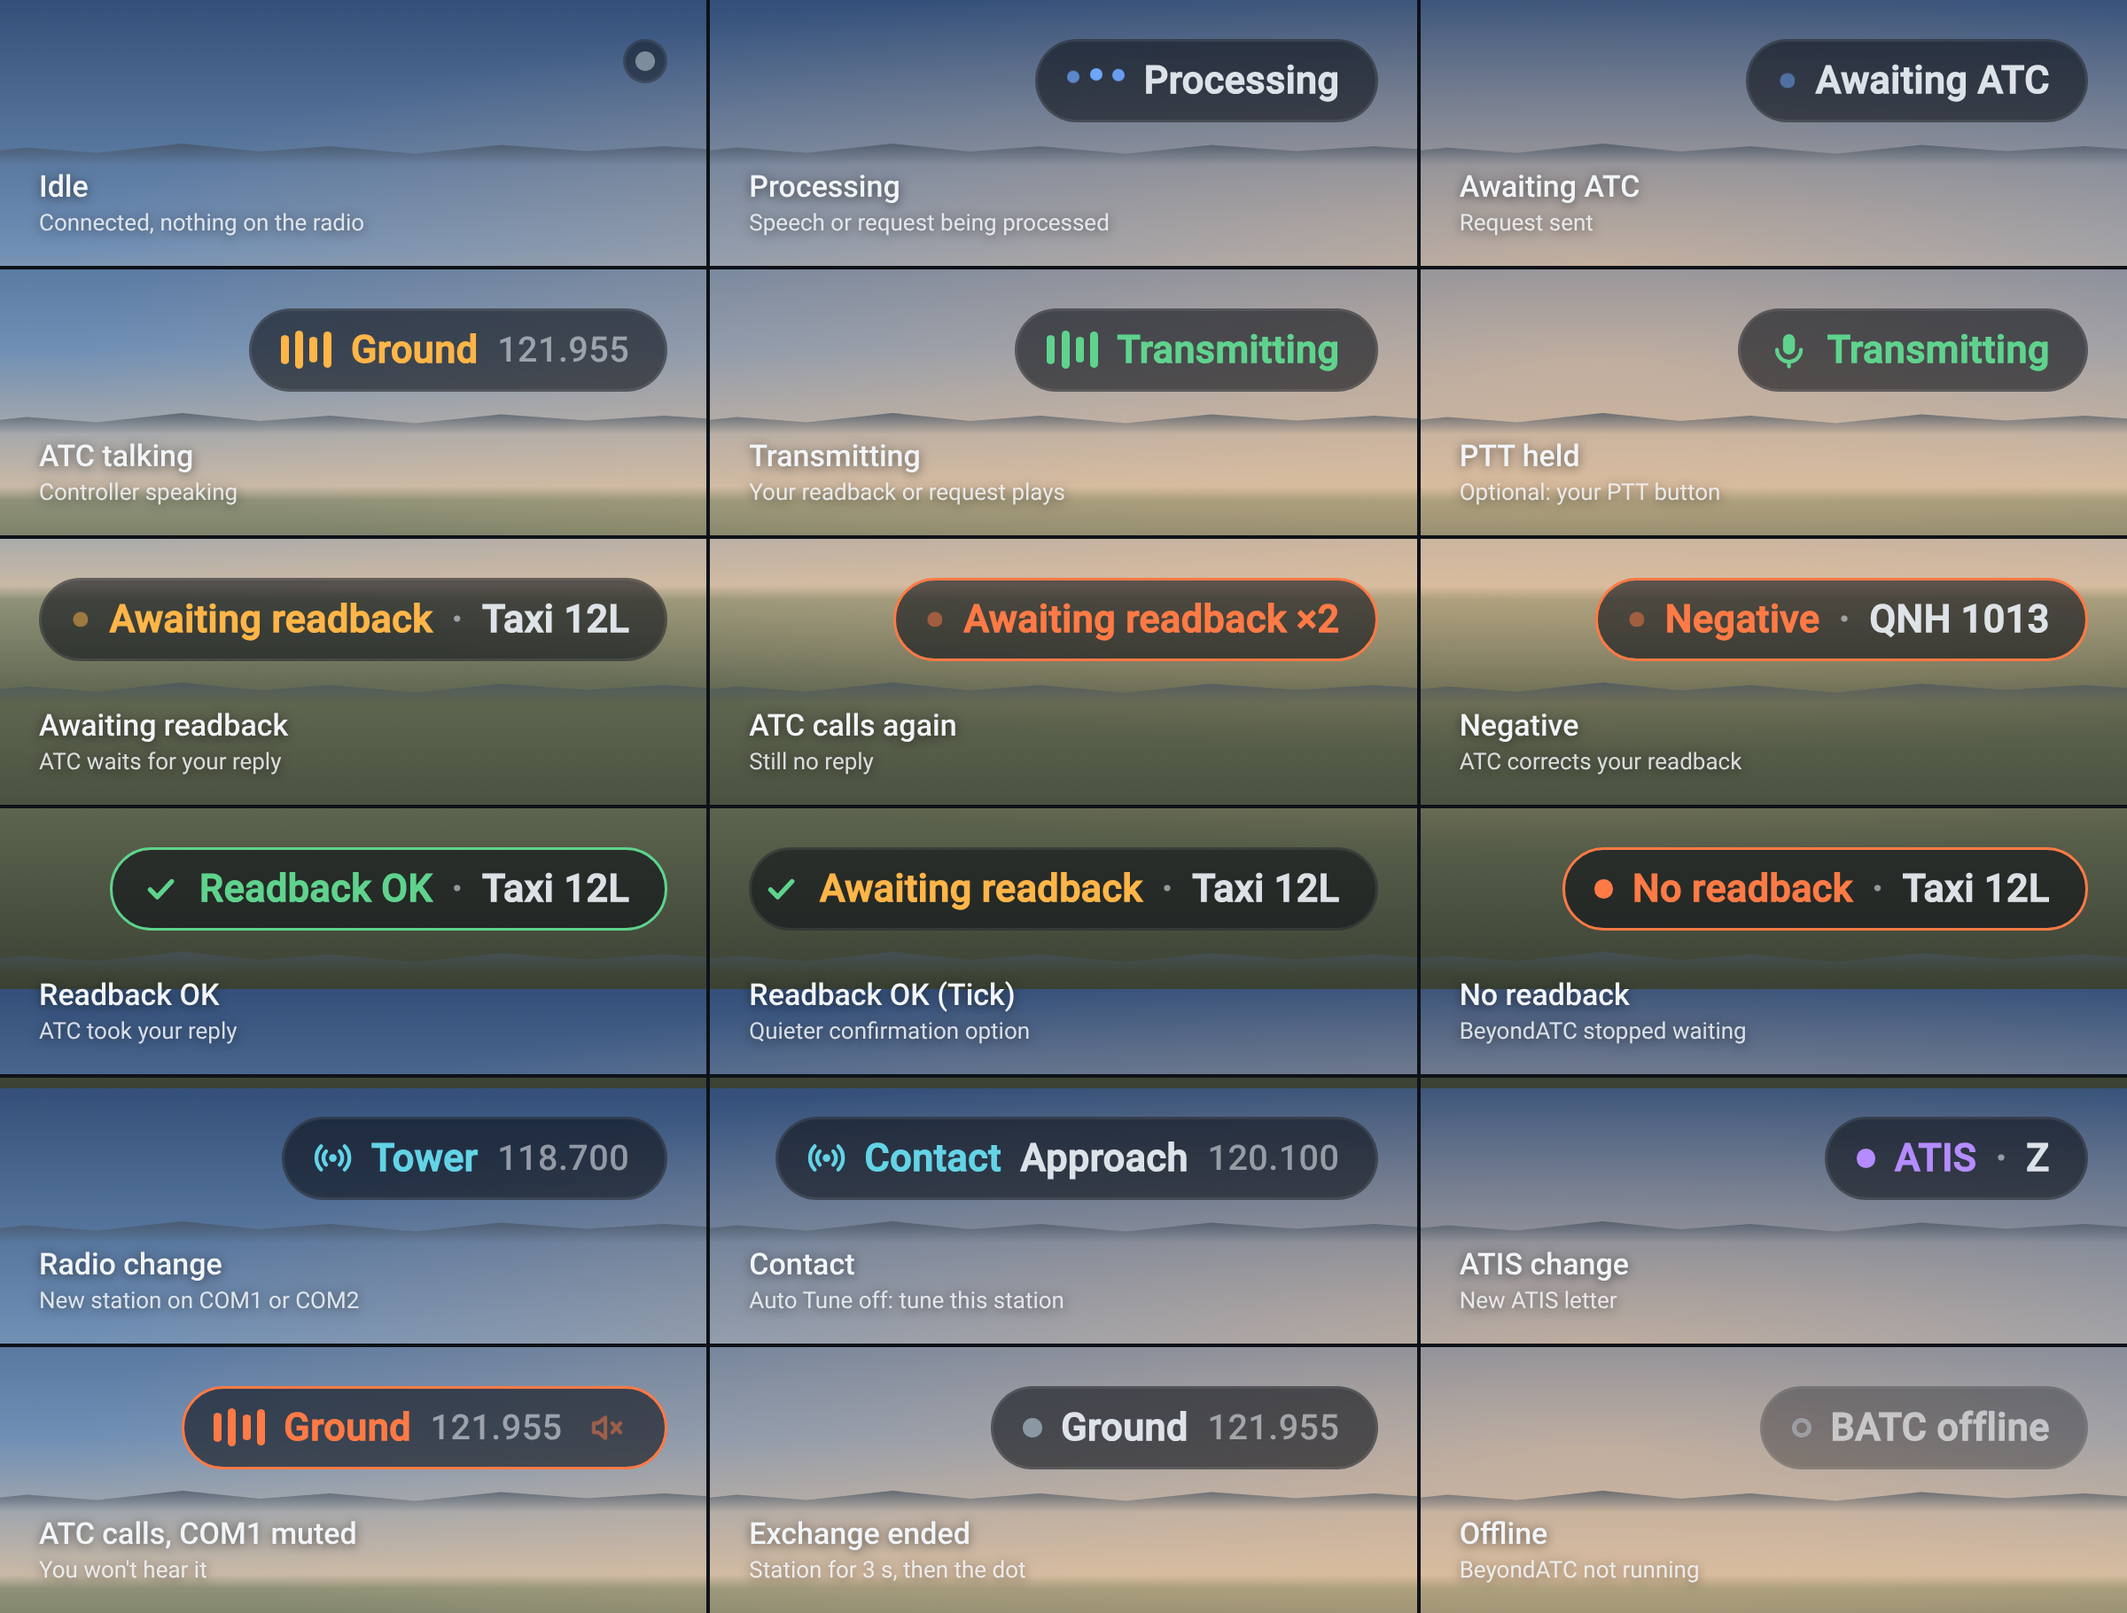
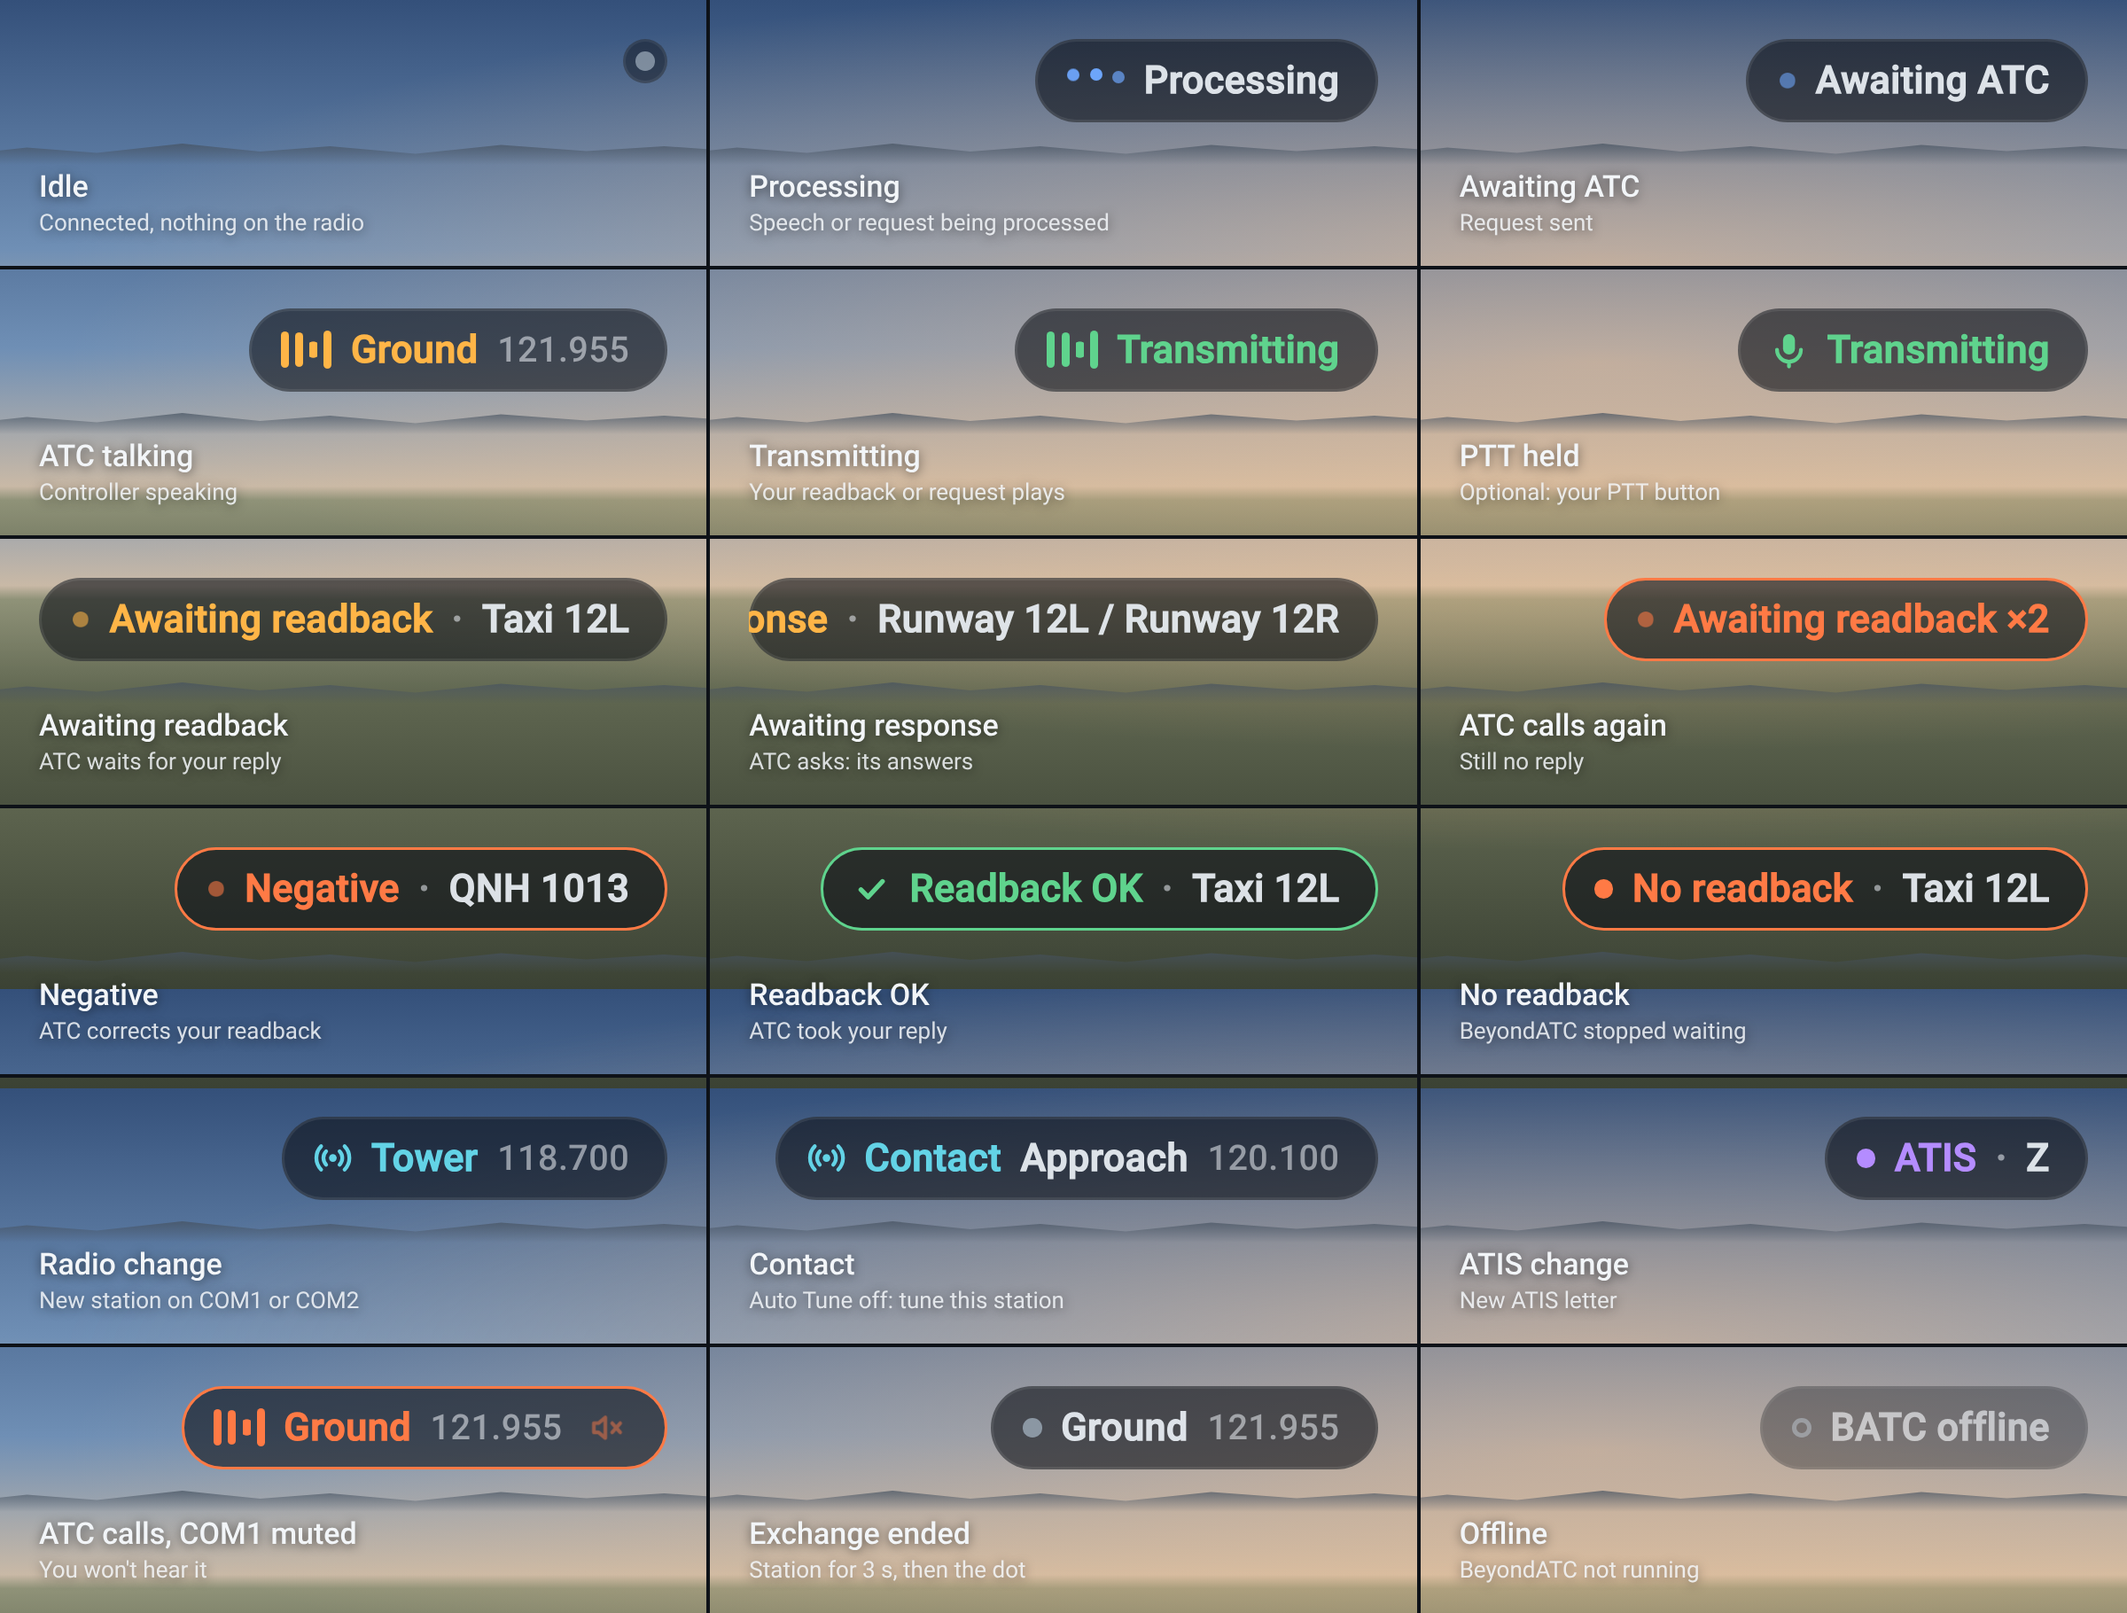
Readback confirmation: keep the green "Readback OK" only
Drops the "When OK" setting and its Tick / Pulse / Off variants: ATC taking your reply always turns the
pill green for 1.5 s while readback hints are on. The state sheet shows a question's answers instead of
the Tick tile; the settings image no longer cuts off Reset.

Claude-Session: https://claude.ai/code/session_01Lk4uSD1H6Vg8SX71CWaquM

diff --git a/src/html_ui/paul-batc-pill/pill.js b/src/html_ui/paul-batc-pill/pill.js
@@ -19,8 +19,6 @@
     showReadback: true,  // while BeyondATC waits for your readback, hint what it is ("Taxi 30R")
     readbackDetail: "hint", // with a readback pending: "none" (status only), "short" (the boxes' values:
                             // "30R · T1"), "hint" ("Taxi via T1"), "boxes" (the toolbar's clearance boxes)
-    readbackConfirm: "full", // when ATC takes your reply: "full" (green "Readback OK" with the hint), "tick" (the
-                             // lamp turns into a green tick), "pulse" (a green outline pulse), "off"
     showTuning: true,    // show the new station when COM1/COM2 changes
     showContact: true,   // Auto Tune off: after "contact <station> <freq>", remind you until COM1 is on it
     showAtis: true,      // show a new ATIS letter
@@ -39,11 +37,11 @@
     host: 'ui-resource-element[name="MasterPage_InGame"]', // only mounted in flight
   };
   var FADE_MS = 140;
-  var CONFIRM_MS = { full: 1500, tick: 1000, pulse: 900 }; // how long each confirmation shows
+  var CONFIRM_MS = 1500;  // "Readback OK" shows this long after ATC took your reply
 
   // What the settings card changes. Saved in localStorage, which every sim UI view shares.
   var USER_KEYS = ["corner", "x", "y", "scale", "showTuning", "showContact", "showAtis", "showReadback", "readbackDetail",
-    "readbackConfirm",     "warnMuted", "showPtt", "hideOffline",
+    "warnMuted", "showPtt", "hideOffline",
     "showTraffic", "facility"];
   var STORE_KEY = "batcpill.settings";
   var DEFAULTS = {};
@@ -152,7 +150,6 @@
     '<div class="bc-pane" data-pane="display">' +
       toggleRow("Readback hints", "showReadback") +
       choiceRow("readbackDetail", [["none", "None"], ["short", "Short"], ["hint", "Hint"], ["boxes", "Boxes"]]) +
-      choiceRow("readbackConfirm", [["off", "Off"], ["pulse", "Pulse"], ["tick", "Tick"], ["full", "Full"]], "When OK") +
       toggleRow("Radio changes", "showTuning") + toggleRow("Contact reminders", "showContact") +
       toggleRow("ATIS changes", "showAtis") + toggleRow("Warn when COM1 muted", "warnMuted") +
       toggleRow("PTT indicator", "showPtt") +
@@ -178,9 +175,8 @@
   }
 
   // a sub-setting of the row above it: its choices fill the row, no label
-  function choiceRow(key, options, label) {
-    return '<div class="bc-row bc-choice" data-for="' + key + '"><span class="bc-seg">' +
-      (label ? '<span class="bc-sub">' + label + "</span>" : "") + options.map(function (o) {
+  function choiceRow(key, options) {
+    return '<div class="bc-row bc-choice" data-for="' + key + '"><span class="bc-seg">' + options.map(function (o) {
         return '<span class="bc-btn" data-choice="' + key + ":" + o[0] + '">' + o[1] + "</span>";
       }).join("") + "</span></div>";
   }
@@ -293,20 +289,15 @@
       (detail ? '<span class="bp-sep">·</span><span>' + esc(detail) + "</span>" : "") };
   }
 
-  // ATC took your reply (BeyondATC says nothing back to a correct one): "full" turns the pill green with
-  // "Readback OK" and the hint; "tick" keeps the pill and turns its lamp into a green tick. "pulse" is a class
-  // added to whatever shows next (see view).
+  // ATC took your reply (BeyondATC says nothing back to a correct one): green "Readback OK" with the hint
   function confirmLook(c) {
-    if (CONFIG.readbackConfirm === "tick") {
-      return readbackLook(c.readback, 1, c.detail, c.boxes, { cls: "s-atc", lamp: CHECK });
-    }
     return readbackLook(c.readback, 1, c.detail, c.boxes,
       { cls: "s-ok", lamp: CHECK, label: c.readback ? "Readback OK" : "Response OK" });
   }
 
   function confirming() {
     return state.confirmed && state.confirmedUntil && Date.now() < state.confirmedUntil &&
-      CONFIG.showReadback && CONFIG.readbackConfirm !== "off";
+      CONFIG.showReadback;
   }
 
   // the one-line detail for the chosen mode: the hint, or just the boxes' values ("30R · T1 · T1")
@@ -368,13 +359,6 @@
       case "readbackDetail":
         if (CONFIG.showReadback) return readbackLook(true, 1, "Taxi via T1 · Hold short 12L", DEMO_BOXES);
         break;
-      case "readbackConfirm":
-        if (!CONFIG.showReadback || CONFIG.readbackConfirm === "off") break;
-        if (CONFIG.readbackConfirm === "pulse") {
-          // replays the pulse every demo: the pill swaps to a fresh class so the animation restarts
-          return { cls: "is-dot is-okpulse", html: LAMP };
-        }
-        return confirmLook({ readback: true, detail: "Taxi via T1 · Hold short 12L", boxes: DEMO_BOXES });
       case "showAtis":
         if (CONFIG.showAtis) return atisLook("Z");
         break;
@@ -446,7 +430,7 @@
           v = tuneLook(state.tune);
         } else if ((v = readbackView())) {
           // waiting for your readback
-        } else if (confirming() && CONFIG.readbackConfirm !== "pulse") {
+        } else if (confirming()) {
           v = confirmLook(state.confirmed);
         } else if (state.missed && now < state.missedUntil) {
           var md = detailFor(state.missed.detail, state.missed.boxes);
@@ -465,7 +449,6 @@
         v = state.text ? { cls: "", html: LAMP + "<span>" + esc(state.text) + "</span>" } : null;
     }
     if (!v) v = { cls: "is-dot", html: LAMP };
-    if (confirming() && CONFIG.readbackConfirm === "pulse" && state.mode === "ready") v.cls += " is-okpulse";
     if (state.muted && !/\bis-dot\b/.test(v.cls)) v.html += MUTE;
     return withExtra(v);
   }
@@ -666,10 +649,9 @@
   }
 
   function startConfirm() {
-    var ms = CONFIRM_MS[CONFIG.readbackConfirm] || 0;
-    state.confirmedUntil = Date.now() + ms;
+    state.confirmedUntil = Date.now() + CONFIRM_MS;
     clearTimeout(timers.confirm);
-    timers.confirm = setTimeout(function () { state.confirmed = null; render(); }, ms + 20);
+    timers.confirm = setTimeout(function () { state.confirmed = null; render(); }, CONFIRM_MS + 20);
   }
 
   // "contact Marseille Approach on 120.100" -> { name: "Marseille Approach", freq: "120.100" };
@@ -912,9 +894,8 @@
       choices[i].className = "bc-btn" + (String(CONFIG[c[0]]) === c[1] ? " is-on" : "");
     }
     // the detail only matters with readback hints on
-    ["readbackDetail", "readbackConfirm"].forEach(function (k) {
-      card.querySelector('[data-for="' + k + '"]').className = "bc-row bc-choice" + (CONFIG.showReadback ? "" : " is-off");
-    });
+    var detailRow = card.querySelector('[data-for="readbackDetail"]');
+    detailRow.className = "bc-row bc-choice" + (CONFIG.showReadback ? "" : " is-off");
   }
 
   function openCard(open) {

diff --git a/src/html_ui/paul-batc-pill/pill.css b/src/html_ui/paul-batc-pill/pill.css
@@ -202,18 +202,11 @@
   color: var(--dim);
 }
 #batc-pill .bp-radio, #batc-pill .bp-mic { color: var(--c); transition: color 0.3s ease; }
-/* ATC took your reply: a green tick in the lamp's place */
+/* ATC took your reply: a green tick in the lamp's place ("Readback OK") */
 #batc-pill .bp-check { color: #5fd38d; animation: bp-pop 0.35s var(--ease); }
 @keyframes bp-pop {
   0% { opacity: 0; transform: scale(0.4); }
   100% { opacity: 1; transform: scale(1); }
-}
-/* "pulse" confirmation: the outline flashes green once, over whatever the pill shows */
-#batc-pill.is-okpulse .bp-bg { animation: bp-okpulse 0.9s ease-out; }
-#batc-pill.is-okpulse .bp-lamp { background-color: #5fd38d; }
-@keyframes bp-okpulse {
-  0% { border-color: #5fd38d; background-color: rgba(95, 211, 141, 0.35); }
-  100% { border-color: var(--edge); background-color: var(--bg); }
 }
 /* ATC calling while COM1 is muted: the speaker icon is the message */
 #batc-pill.is-muted .bp-ico {
@@ -335,22 +328,13 @@
   flex: 1 1 0;
   text-align: center;
   margin-left: calc(2 * var(--k));
-  padding: calc(4 * var(--k)) calc(3 * var(--k));
+  padding: calc(4 * var(--k)) calc(7 * var(--k));
   border-radius: calc(5 * var(--k));
   background-color: var(--btn);
-  white-space: nowrap;
   color: var(--dim);
   font-size: calc(11 * var(--k));
 }
-#batc-pill-cfg .bc-seg .bc-btn:first-child, #batc-pill-cfg .bc-sub + .bc-btn { margin-left: 0; }
-#batc-pill-cfg .bc-sub {
-  align-self: center;
-  margin-right: calc(6 * var(--k));
-  color: var(--dim);
-  font-size: calc(11 * var(--k));
-  font-weight: 500;
-  white-space: nowrap;
-}
+#batc-pill-cfg .bc-seg .bc-btn:first-child { margin-left: 0; }
 #batc-pill-cfg .bc-seg .bc-btn:hover { background-color: var(--btn-hover); color: var(--fg); }
 #batc-pill-cfg .bc-seg .bc-btn.is-on { background-color: var(--on); color: #0e1218; }
 #batc-pill-cfg .bc-sw {

diff --git a/docs/render/pills.js b/docs/render/pills.js
@@ -24,13 +24,13 @@ var BP = (function () {
     ["ptt", "s-you", MIC + '<span class="bp-who">Transmitting</span>', "PTT held", "Optional: your PTT button"],
     ["readback", "s-atc is-pulse", LAMP + '<span class="bp-who">Awaiting readback</span>' + SEP + "<span>Taxi 12L</span>",
       "Awaiting readback", "ATC waits for your reply"],
+    ["question", "s-atc is-pulse", LAMP + '<span class="bp-who">Awaiting response</span>' + SEP + "<span>Runway 12L / Runway 12R</span>",
+      "Awaiting response", "ATC asks: its answers"],
     ["insist", "s-insist is-pulse", LAMP + '<span class="bp-who">Awaiting readback ×2</span>', "ATC calls again", "Still no reply"],
     ["negative", "s-insist is-pulse", LAMP + '<span class="bp-who">Negative</span>' + SEP + "<span>QNH 1013</span>",
       "Negative", "ATC corrects your readback"],
     ["ok", "s-ok", CHECK + '<span class="bp-who">Readback OK</span>' + SEP + "<span>Taxi 12L</span>",
       "Readback OK", "ATC took your reply"],
-    ["tick", "s-atc", CHECK + '<span class="bp-who">Awaiting readback</span>' + SEP + "<span>Taxi 12L</span>",
-      "Readback OK (Tick)", "Quieter confirmation option"],
     ["missed", "s-insist", LAMP + '<span class="bp-who">No readback</span>' + SEP + "<span>Taxi 12L</span>",
       "No readback", "BeyondATC stopped waiting"],
     ["tune", "s-tune", RADIO + '<span class="bp-who">Tower</span><span class="bp-freq">118.700</span>', "Radio change", "New station on COM1 or COM2"],

diff --git a/docs/render_images.py b/docs/render_images.py
@@ -60,7 +60,7 @@ def main():
     print(f"render: states.png {img.size}")
 
     # pill + open card in the top-right corner of a 1080p screen
-    img = shoot("settings.html", (1920, 1080), 2).crop((1600 * 2, 50 * 2, 1920 * 2, 640 * 2))
+    img = shoot("settings.html", (1920, 1080), 2).crop((1600 * 2, 50 * 2, 1920 * 2, 610 * 2))
     img.save(OUT / "settings.png", optimize=True)
     print(f"render: settings.png {img.size}")
 

diff --git a/CHANGELOG.md b/CHANGELOG.md
@@ -4,7 +4,7 @@
 
 - Added: readback hints. While ATC waits for your readback, acknowledgement or answer, the pill shows "Awaiting readback" or "Awaiting response" with a short hint, the toolbar's clearance boxes or their values (None / Short / Hint / Boxes).
 - Added: the pill turns red-orange when ATC calls you again before you reply ("×2", "×3"), and shows "No readback" when BeyondATC stops waiting.
-- Added: when ATC takes your reply, the pill turns green for 1.5 s ("Readback OK" with the hint). Setting "When OK": Off / Pulse / Tick / Full.
+- Added: when ATC takes your reply, the pill turns green for 1.5 s ("Readback OK" with the hint).
 - Added: ATC answering a wrong readback ("Negative, QNH 1013.") turns the pill red-orange with "Negative" and the correction.
 - Added: hints for line up, go around, speeds, STARs, "report" requests and taxi to a ramp or gate; "taxi via M, T" shows every taxiway.
 - Added: with Auto Tune off, a "Contact" reminder until COM1 is on the station ATC handed you to.

diff --git a/docs/flightsim-to.md b/docs/flightsim-to.md
@@ -53,7 +53,7 @@ Source and issues: https://github.com/paul-charp/FS24-BATC-Pill
 
 - Added: readback hints. While ATC waits for your readback, acknowledgement or answer, the pill shows "Awaiting readback" or "Awaiting response" with a short hint, the toolbar's clearance boxes or their values.
 - Added: the pill turns red-orange when ATC calls you again before you reply, and shows "No readback" when BeyondATC stops waiting.
-- Added: a green "Readback OK" when ATC takes your reply (or a tick, a pulse, or nothing), and a red-orange "Negative" with the correction when ATC rejects it.
+- Added: a green "Readback OK" when ATC takes your reply, and a red-orange "Negative" with the correction when ATC rejects it.
 - Added: hints for line up, go around, speeds, STARs, "report" requests and taxi to a ramp or gate.
 - Added: with Auto Tune off, a "Contact" reminder until COM1 is on the station ATC handed you to.
 - Added: a new ATIS letter shows for 6 s; an ATIS playing on COM1 shows "ATIS".

diff --git a/README.md b/README.md
@@ -38,7 +38,6 @@ Click the pill in flight to open its settings card (two tabs: Display and Positi
 |---|---|
 | Readback hints | show when ATC waits for your readback, acknowledgement or answer |
 | None / Short / Hint / Boxes | how much of it: status only, the clearance boxes' values ("30R · T1 · T1"), a short hint ("Taxi via T1 · Hold short 12L") or the toolbar's clearance boxes |
-| When OK: Off / Pulse / Tick / Full | when ATC takes your reply: nothing, a green outline flash, a green tick in place of the lamp, or a green "Readback OK" with the hint |
 | Radio changes | show the new station when COM1 or COM2 changes |
 | Contact reminders | with Auto Tune off, show whom to contact until COM1 is on it |
 | ATIS changes | show a new ATIS letter |
